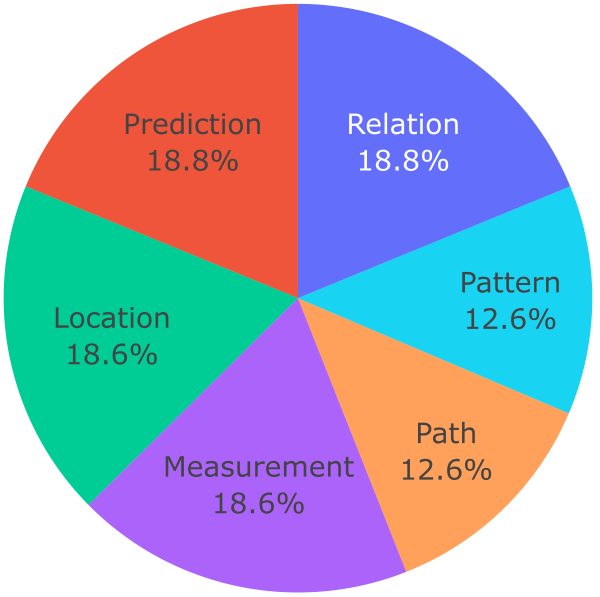
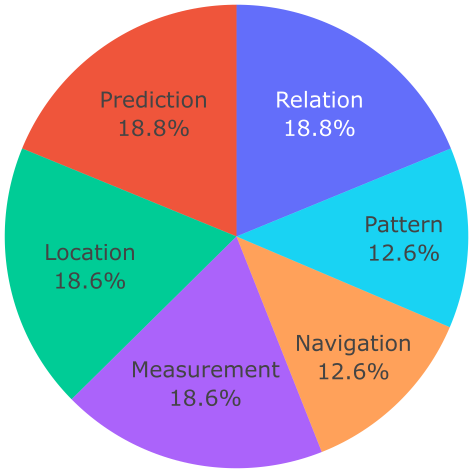
Finish the benchmark section

diff --git a/index.html b/index.html
@@ -172,7 +172,8 @@
         <h2 class="title is-3">Benchmark</h2>
         <div class="content has-text-justified">
           <p>
-           <b>Dataset.</b> This Q&A dataset is based on thirteen scenes part of the Replica dataset: five multi-room scenes - a 2-floor house <i>(apartment 0)</i>, two multi-room apartments <i>(apartment 1, 2)</i>, two different setups of the FRL apartment <i>(FRL apartment 0, 1)</i>; and eight single-room scenes - three apartment rooms <i>(room 0, 1, 2)</i>, a hotel room <i>(hotel 0)</i>, and four office rooms <i>(office 0, 2, 3, 4)</i>. We manually constructed 1000 questions with answers: 100 for all multi-room scenes, 60 for apartment rooms and two offices, and 50 for the remaining two offices. The answers may have one of the two forms: ground truth information for factual data, such as the number of objects in a room, or an illustrative image of the objects/rooms of interest for questions that involve descriptions or identifying similarities. This distinction allows to not penalize the answering system's creativity.
+            <b>Dataset</b><br>
+            This Q&A dataset is based on thirteen scenes part of the <a href="https://github.com/facebookresearch/Replica-Dataset">Replica dataset</a>: five multi-room scenes - a 2-floor house <i>(apartment 0)</i>, two multi-room apartments <i>(apartment 1, 2)</i>, two different setups of the FRL apartment <i>(FRL apartment 0, 1)</i>; and eight single-room scenes - three apartment rooms <i>(room 0, 1, 2)</i>, a hotel room <i>(hotel 0)</i>, and four office rooms <i>(office 0, 2, 3, 4)</i>. We manually constructed 1000 questions with answers: 100 for all multi-room scenes, 60 for apartment rooms and two offices, and 50 for the remaining two offices. The answers may have one of the two forms: ground truth information for factual data, such as the number of objects in a room, or an illustrative image of the objects/rooms of interest for questions that involve descriptions or identifying similarities. This distinction allows to not penalize the answering system's creativity. The questions were divided into 6 categories, adjusted for indoor spaces from the <a href="https://proceedings.esri.com/library/userconf/proc18/tech-workshops/tw_1593-380.pdf">spatial taxonomy for GIS applications</a>: object location, measurements, pattern identification, navigation, spatial relationships, and predictions.
           </p>
         </div>
       </div>
@@ -180,17 +181,17 @@
     <div style="text-align: center;">
       <div style="display: flex; justify-content: center; gap: 10px;">
         <div>
-          <img src="static/images/sunburst.png" alt="Image 1" style="max-width: 70%;">
+          <img src="static/images/sunburst.png" alt="Sunburst chart" style="max-width: 70%;">
           <p><i>a) Question distribution based on their first three words</i></p>
         </div>
         <div>
-          <img src="static/images/question_distribution.png" alt="Image 2" style="max-width: 67%;">
+          <img src="static/images/question_distribution.png" alt="Distribution of questions wrt categories" style="max-width: 84%;">
           <p><i>b) Question distribution based on their categories</i></p>
         </div>
       </div>
       <div style="display: flex; justify-content: center; gap: 10px; margin-top: 10px;">
         <div>
-          <img src="static/images/question_lengths.png" alt="Image 3" style="max-width: 90%;">
+          <img src="static/images/question_lengths.png" alt="Question distribution wrt lengths" style="max-width: 90%;">
           <p><i>c) Question distribution based on their lengths</i></p>
         </div>
       </div>
@@ -200,16 +201,14 @@
     <br><br>
         <div class="content has-text-justified">
           <p>
-           <b>Automatic assessment</b>
-            (a) The distribution of instructions based on the first word, where the inner circle of the graph represents the frequency of the first word’s occurrence, and the outer circle shows the frequency of verbs and nouns appearing in the instructions corresponding to that first word. 
-            (b) The word cloud of responses. 
-            (c) The distribution of instruction length. (d) The distribution of response length
+           <b>Automatic assessment</b><br>
+           The goal of the automatic assessment is to evaluate the responses from an answering system with respect to the actual state of the corresponding scene in the dataset. The assessment is performed by using LLMs from the GPT4 family as state-of-the-art. We divided the assessment into two cases: <i>Ground Truth Check</i> - when the ground truth is indisputable (e.g. number of objects in the room), <i>Answer Cross-check</i> - when the definition of the ground truth would either need to exceed context length or would unnecessarily limit the answering system's creativity (e.g. finding similarities between rooms). In both scenarios, an LLM is provided with the question, the system's answer, and the acceptance criterion, which varies based on the question type. In the case of the <i>Ground Truth Check</i>, the message to the LLM is extended with information on the actual state of the scene with respect to the given question. <i>Answer Cross-check</i>, however, provides an image presenting the corresponding scene(s) in question, accompanied by an example answer. This way, a VLM can decide whether the actual system's answer matches the reality, and not necessarily matching the example, reducing the bias of the assessment system. Then, a language model makes a decision and outputs two components: the acceptance/rejection decision, and its justification, which gives the user of the dataset an insight on what can be addressed in the next iterations of their solution.
           </p>
 
         </div>
     <centering>
       <div style="text-align: center;">
-        <img id="pipeline" style="max-width: 100%;" src="static/images/statistics.png">
+        <img id="pipeline" style="max-width: 100%;" src="static/images/assessment.png">
       </div>
     </centering>
   
